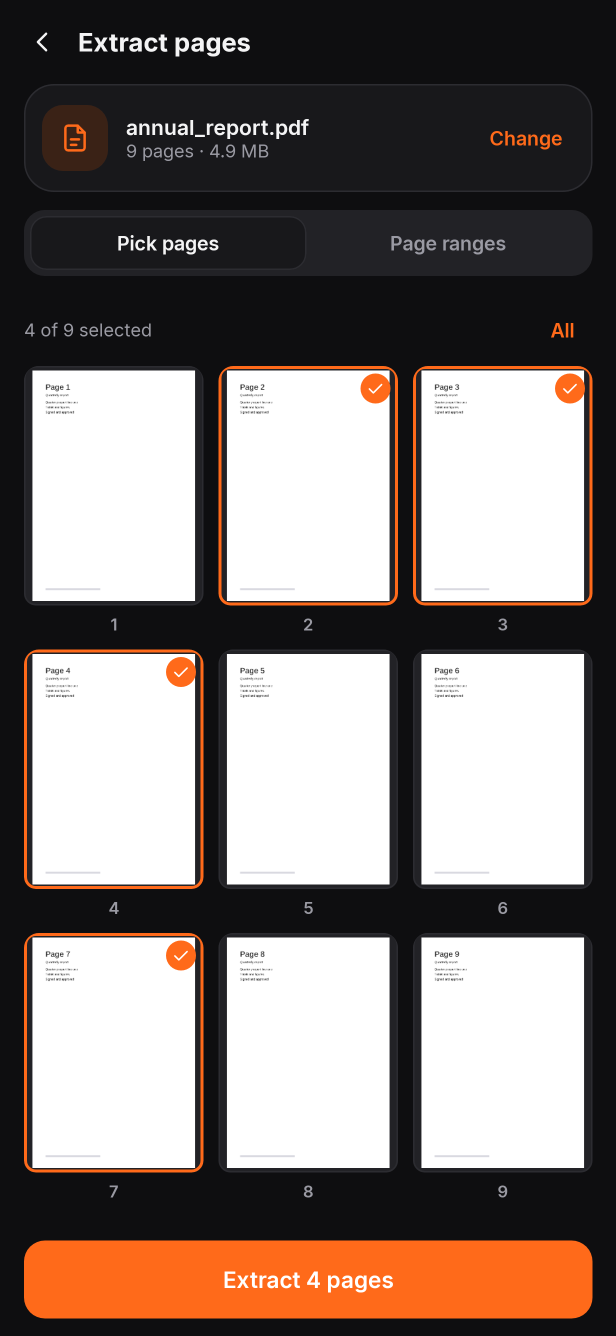
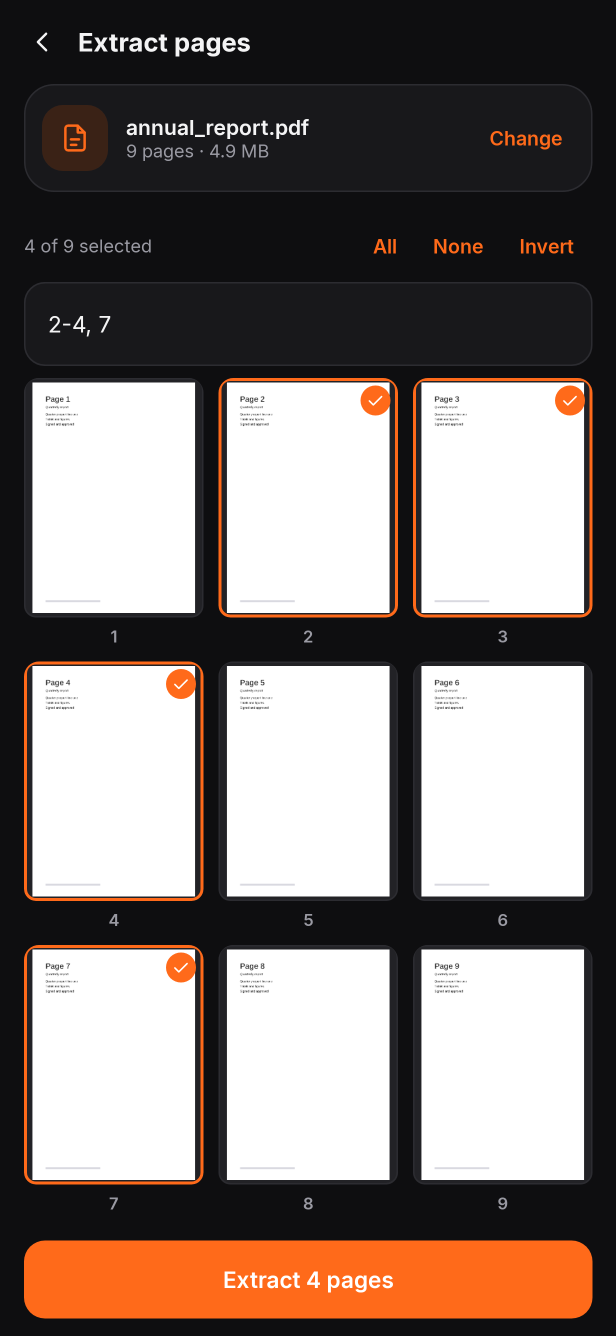
Re-record screenshots for split-cut, split-ranges, extract, insert, merge-expanded, page-peek; tighten Split/Insert headers; docs
Claude-Session: https://claude.ai/code/session_01QtjDEfUSeiytvFedJK5fax

diff --git a/app/src/main/java/com/namanbansal/forge/tools/pdf/SplitScreen.kt b/app/src/main/java/com/namanbansal/forge/tools/pdf/SplitScreen.kt
@@ -121,11 +121,11 @@ private fun ColumnScope.SplitOptions(
                         SplitMode.entries.map { it.label }, mode.ordinal, { vm.setMode(SplitMode.entries[it]) },
                         disabled = if (noBookmarks) setOf(SplitMode.Bookmarks.ordinal) else emptySet(),
                     )
-                    if (noBookmarks) Text("Bookmarks is unavailable: this PDF has no bookmarks (outline) to split by.", style = ForgeType.Small, color = c.text2, modifier = Modifier.padding(top = 8.dp))
+                    if (noBookmarks) Text("Bookmarks is unavailable: this PDF has none.", style = ForgeType.Small, color = c.text2, modifier = Modifier.padding(top = 8.dp))
                     Spacer(Modifier.height(12.dp))
                     when (mode) {
                         SplitMode.Cut -> Row(verticalAlignment = Alignment.CenterVertically) {
-                            Text("Tap the gap between two pages to cut there. Long-press a page to preview it.", style = ForgeType.Small, color = c.text2, modifier = Modifier.weight(1f))
+                            Text("Tap a gap to cut there. Long-press a page to preview.", style = ForgeType.Small, color = c.text2, modifier = Modifier.weight(1f))
                             if (cuts.isNotEmpty()) TextAction("Clear", vm::clearCuts)
                         }
                         SplitMode.Ranges -> {
@@ -145,12 +145,12 @@ private fun ColumnScope.SplitOptions(
                         else Text("One file for each top-level bookmark, from its page to the next bookmark.", style = ForgeType.Body, color = c.text2)
                     }
                     if (parts != null) {
-                        Spacer(Modifier.height(12.dp))
+                        Spacer(Modifier.height(10.dp))
                         Legend(parts, mode, c.isDark)
                     }
-                    Spacer(Modifier.height(12.dp))
+                    Spacer(Modifier.height(10.dp))
                     if (parts != null && parts.size > 100) InfoNote("That is a lot of files. They are all saved to Downloads/Forge; the ZIP option keeps them tidy.", Modifier.padding(bottom = 8.dp))
-                    ToggleRow("Also save a ZIP", zip, vm::setMakeZip, subtitle = "One archive with all the files, handy for sharing")
+                    ToggleRow("Also save a ZIP", zip, vm::setMakeZip)
                     if (protectionNote != null) InfoNote(protectionNote, Modifier.padding(top = 8.dp))
                     Spacer(Modifier.height(12.dp))
                 }
@@ -164,7 +164,6 @@ private fun ColumnScope.SplitOptions(
 private fun Legend(parts: List<SplitPart>, mode: SplitMode, dark: Boolean) {
     val c = ForgeTheme.colors
     Column {
-        Text("${parts.size} ${if (parts.size == 1) "file" else "files"}", style = ForgeType.Small.copy(fontWeight = FontWeight.SemiBold), color = c.text2, modifier = Modifier.padding(bottom = 6.dp))
         Row(Modifier.horizontalScroll(rememberScrollState()), horizontalArrangement = Arrangement.spacedBy(8.dp)) {
             parts.take(MAX_CHIPS).forEachIndexed { i, part ->
                 val color = groupColor(i, dark)

diff --git a/app/src/main/java/com/namanbansal/forge/ui/toolkit/PagePeek.kt b/app/src/main/java/com/namanbansal/forge/ui/toolkit/PagePeek.kt
@@ -78,7 +78,9 @@ fun PagePeekContent(pages: List<GridPage>, startIndex: Int, onIndexChange: (Int)
         }
         Row(Modifier.fillMaxWidth().statusBarsPadding().padding(horizontal = 8.dp, vertical = 4.dp), verticalAlignment = Alignment.CenterVertically) {
             Text(
-                "${pages[pager.currentPage.coerceIn(0, pages.lastIndex)].description} · ${pager.currentPage + 1} of ${pages.size}",
+                pages[pager.currentPage.coerceIn(0, pages.lastIndex)].description.let { d ->
+                    if (d == "Page ${pager.currentPage + 1}") "$d of ${pages.size}" else "$d · ${pager.currentPage + 1} of ${pages.size}"
+                },
                 style = ForgeType.Label, color = Color.White, modifier = Modifier.weight(1f).padding(start = 8.dp),
             )
             Box(

diff --git a/app/src/main/java/com/namanbansal/forge/tools/pdf/InsertScreen.kt b/app/src/main/java/com/namanbansal/forge/tools/pdf/InsertScreen.kt
@@ -215,7 +215,6 @@ private fun InsertHeader(
                     style = ForgeType.Small, color = c.text2, modifier = Modifier.padding(top = 8.dp),
                 )
             }
-            Text("Tap the + between two pages to move the insertion point. Long-press a page to preview it.", style = ForgeType.Small, color = c.text2, modifier = Modifier.padding(top = 4.dp))
         }
         if (protectionNote != null) InfoNote(protectionNote, Modifier.padding(top = 12.dp))
     }

diff --git a/docs/ADDING_A_TOOL.md b/docs/ADDING_A_TOOL.md
@@ -88,6 +88,14 @@ That's it: search, category lists, pins, the `tool/{code}` route, the "Open with
 - Many outputs: return `ToolOutcome(outputs = ..., archive = zip)`; the result screen offers Share all / Share ZIP and rolls back saved files if a run fails or is cancelled.
 - UI: `PageThumb` / `PageSelectGrid`, `ReorderableGrid` / `ReorderableColumn` (drag to reorder), `ForgeTextField`, `Stepper`, `ToggleRow`, `InfoNote`, `OptionChip`.
 
+## Page picking (Round 1A)
+
+Anything that asks the user for pages should show them, not ask for page numbers:
+- `ui/toolkit/PagePicker` = selection grid (tap, drag across a run, long-press peek, All/None/Invert) plus an optional range field in two-way sync (`core/pdf/PageSelectionSync`: keep the selection set and the text in the ViewModel, both persisted).
+- `PagePickerGrid` is the lower-level lazy grid: pass `GridPage`s (tint, badge, dimmed, blank, gap ids) and optional `GridGaps` for tappable gaps (Split's cuts, Insert's insertion point), plus `header`/`footer` via `fullWidthItem`.
+- `PagePeek` is the full-screen page view (swipe between pages, swipe down or Back to close); the grid opens it on long-press, Merge and the Page manager open it directly.
+- `core/pdf/SplitGroups` (cuts -> files, colour owners) and `core/pdf/InsertPreview` (in-place preview list) are the pure models behind Split and Insert.
+
 ## Screenshots
 
 `./gradlew recordRoborazziDebug --tests '*ScreenshotTest'` writes light/dark PNGs of every screen to `docs/screenshots/`

diff --git a/docs/ROADMAP.md b/docs/ROADMAP.md
@@ -9,13 +9,13 @@ Released: v0.1.121 — foundation, branding, Rotate, Merge, Split, Page manager,
 
 ## Round 1 — Previews everywhere + daily-driver viewer
 **1A. Visual page picking (shared `PagePicker`)**
-- [ ] Thumbnail grid component: tap / drag-select, range text field kept in two-way sync with the grid, long-press = full-screen page peek
-- [ ] Split: tap the gap between pages to cut; colour-coded groups preview the output files
-- [ ] Extract: tap pages
-- [ ] Insert: tap the gap to choose the insert position, with a preview of the pages being inserted
-- [ ] Merge: expand a file to see its pages
-- [ ] Page manager uses the same component
-- [ ] Default pins → Merge, Split, Viewer, Page manager (migrate users still on the old defaults)
+- [x] Thumbnail grid component: tap / drag-select, range text field kept in two-way sync with the grid, long-press = full-screen page peek
+- [x] Split: tap the gap between pages to cut; colour-coded groups preview the output files
+- [x] Extract: tap pages
+- [x] Insert: tap the gap to choose the insert position, with a preview of the pages being inserted
+- [x] Merge: expand a file to see its pages
+- [x] Page manager uses the same component
+- [x] Default pins → Merge, Split, Viewer, Page manager (migrate users still on the old defaults)
 
 **1B. Viewer as default PDF app**
 - [ ] Sharp zoom (tiled hi-res rendering of the visible area)
